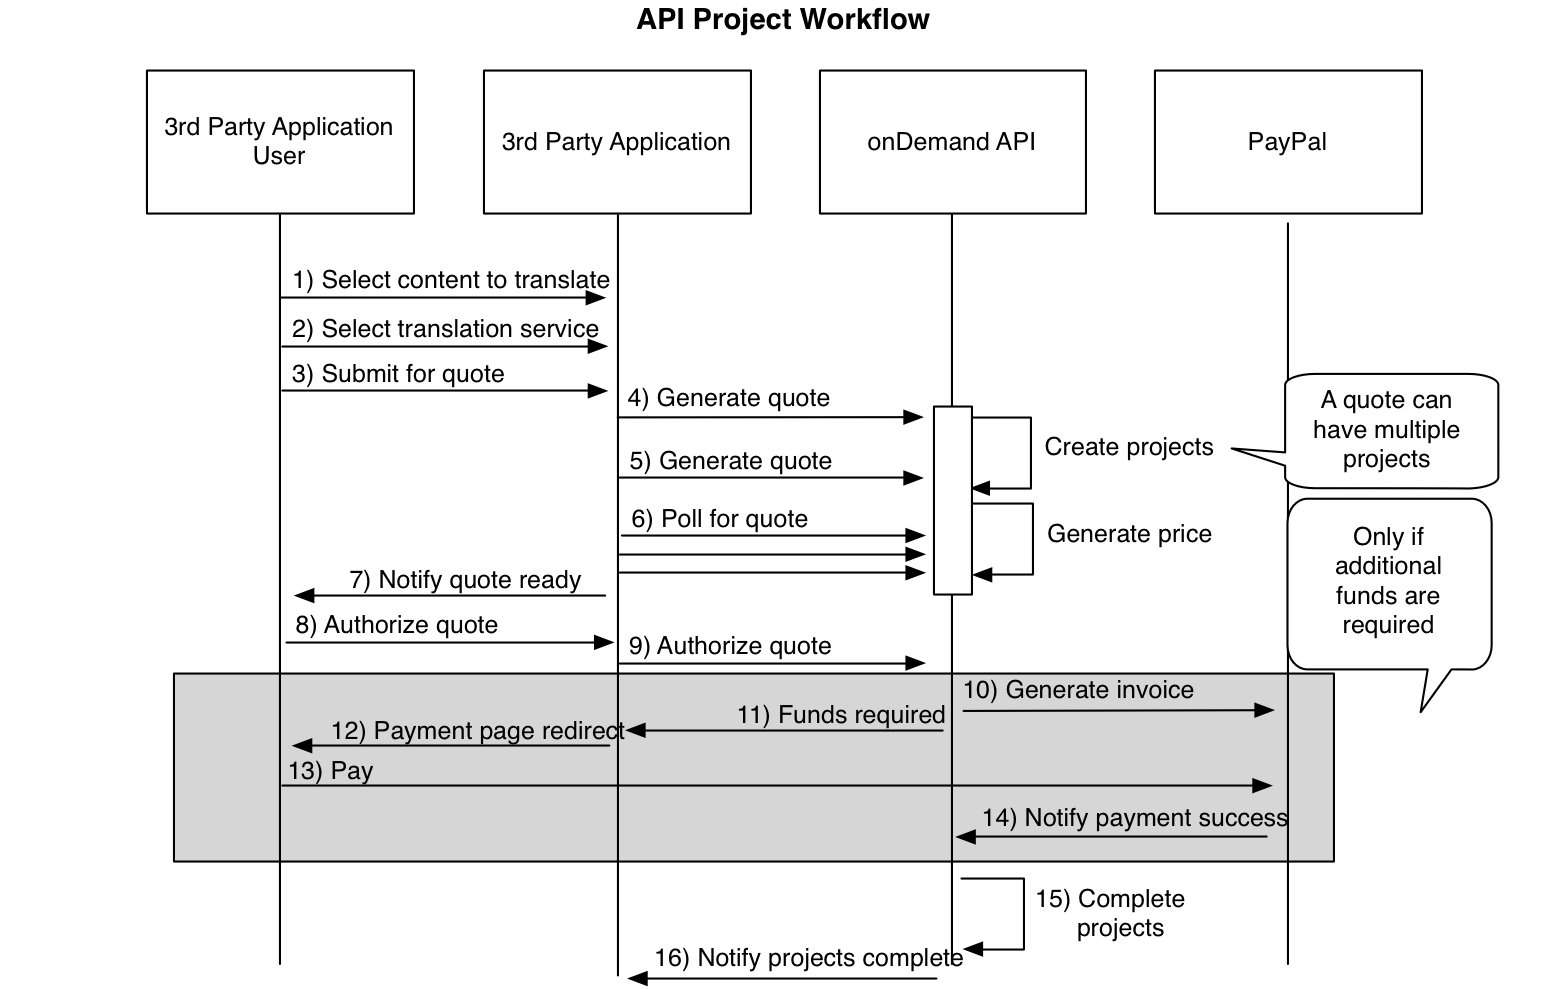
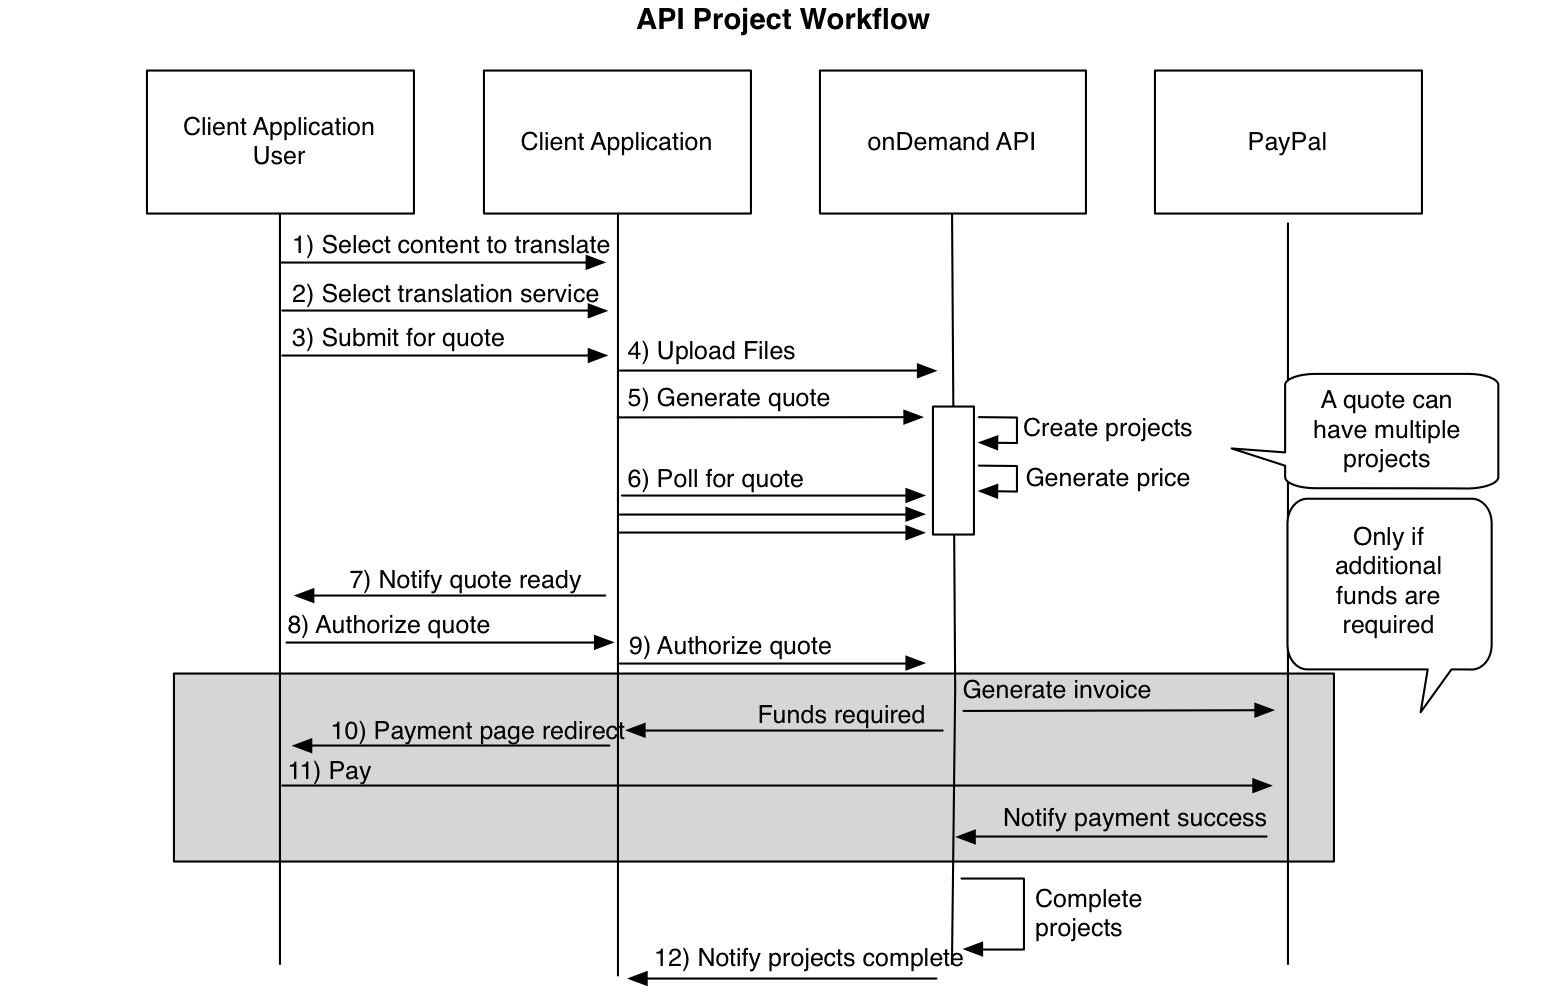
updated workflow overview

diff --git a/index.rst b/index.rst
@@ -72,12 +72,27 @@ If you have trouble getting your API keys or need an account on an enterprise si
 High Level Workflow
 ===================
 
-This high level sequence diagram shows the workflow for creating and completing onDemand projects.  The process starts with the merchant building list of projects to translate within the client application.  Then the merchant selects a service and target languages and requests a quote.  onDemand responds with a quote that contains information about how the work will be broken down into projects and pricing information.  The merchant can authorize the quote (and if necessary pay) to start the project.  
+This high level sequence diagram shows the workflow for creating and completing onDemand projects.  The process starts with an end user building list of content assets to translate within the client application.  Then the merchant selects a service and target languages and requests a quote.  onDemand responds with a quote that contains information about how the work will be broken down into projects and pricing information.  The end user can authorize the quote (and if necessary pay) to start the project.  
 
 
 .. image:: /_static/img/high_level_workflow_sequence.png
    :alt: alternate text
    :align: center
+
+
+1. The end user uses the client application to build a list of content to be translated. These assets can be products or files.
+2. The end user selects an option to translate the selected assets and is presented a list of translation services that are available.  Typically, these translation services will represent different quality levels such as straight machine translation, machine translation with human post edit, crowd translation, professional translation, and specialist domain translation.  The list of avialable services can be found by calling the :doc:`list_services` API.
+3. The end user submits the list of content assets for a quote.
+4. If the project is file-based, the client application uploads each file using the :doc:`add_file` API.  If the project is product-based, the products are sent to onDemand when generating the quote.
+5. The client application calls the :doc:`generate_quote` API to build a quote for the selected content and translation service.  Product-based projects and some file-based products will come back immediately with a completed quote containing a price. Other quotes will require additional time to parse the files.  
+6. If the price is not ready, the quote will come back with a status of calculating and no price.  If this is the case, the client application should regularly call the :doc:`get_quote` API until the quote is "Pending" or has a status of "Error."
+7. The client application should notify the end user that the price is ready.  
+8. The end user can authorize or reject the quote.  
+9. The client application calls either the :doc:`authorize_quote` or :doc:`reject_quote` API depending on the end user's preference. If the end user has a prepaid balance or has been given free translation credit, authorizing the quote will automatically start the translation projects.  If funds are required, the end user must go through a payment process.  
+#. If payment is required, the authorize quote request will come back with an HTTP status code of 402.  The body of the response will contain a PaymentURL that the end user can follow to submit payment.
+#. The client application sends the end user to the payment page where he or she can pay for the balance due.
+#. Lionbridge will complete the projects and notify the client application that the translated content is ready.
+
 
 
 Glossary
